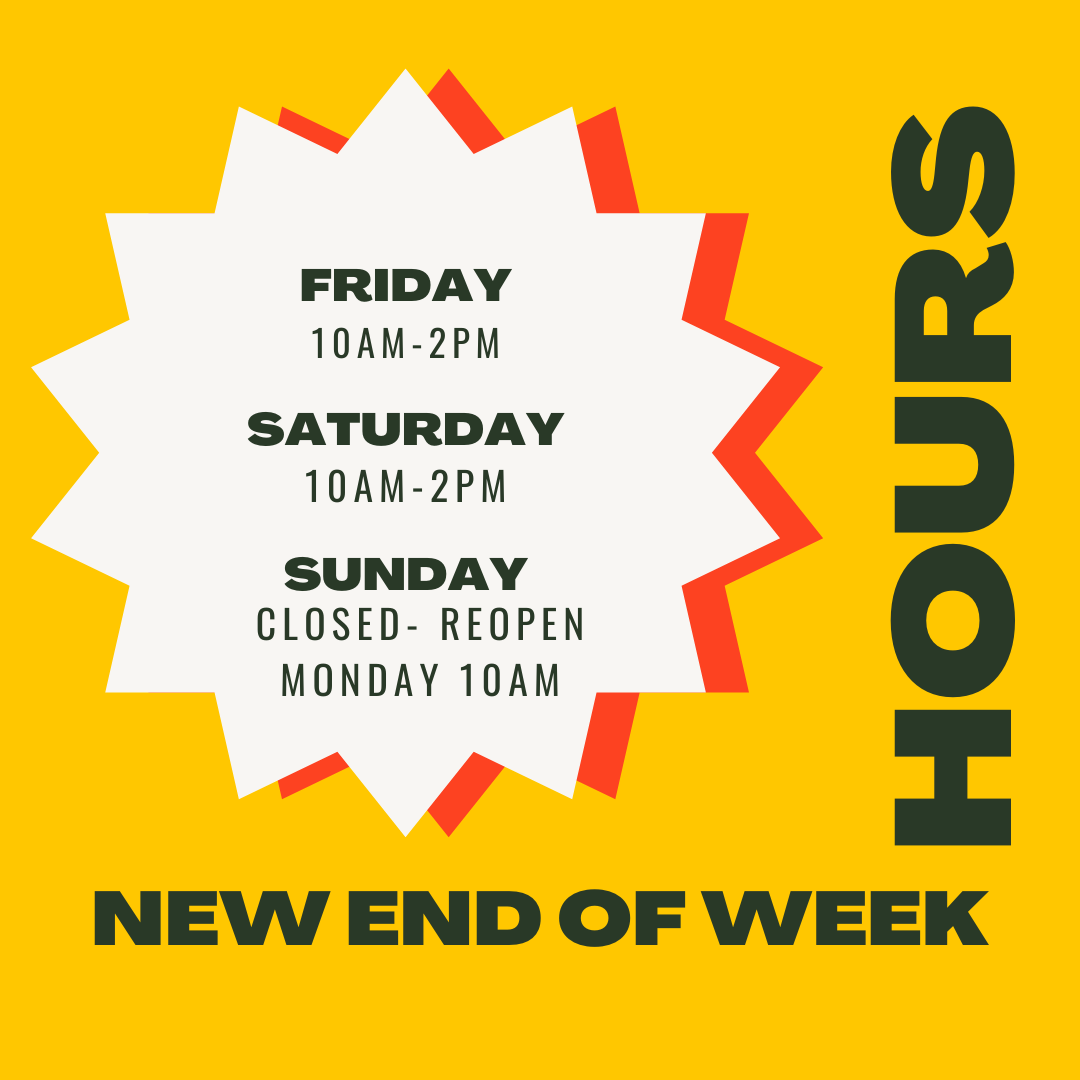
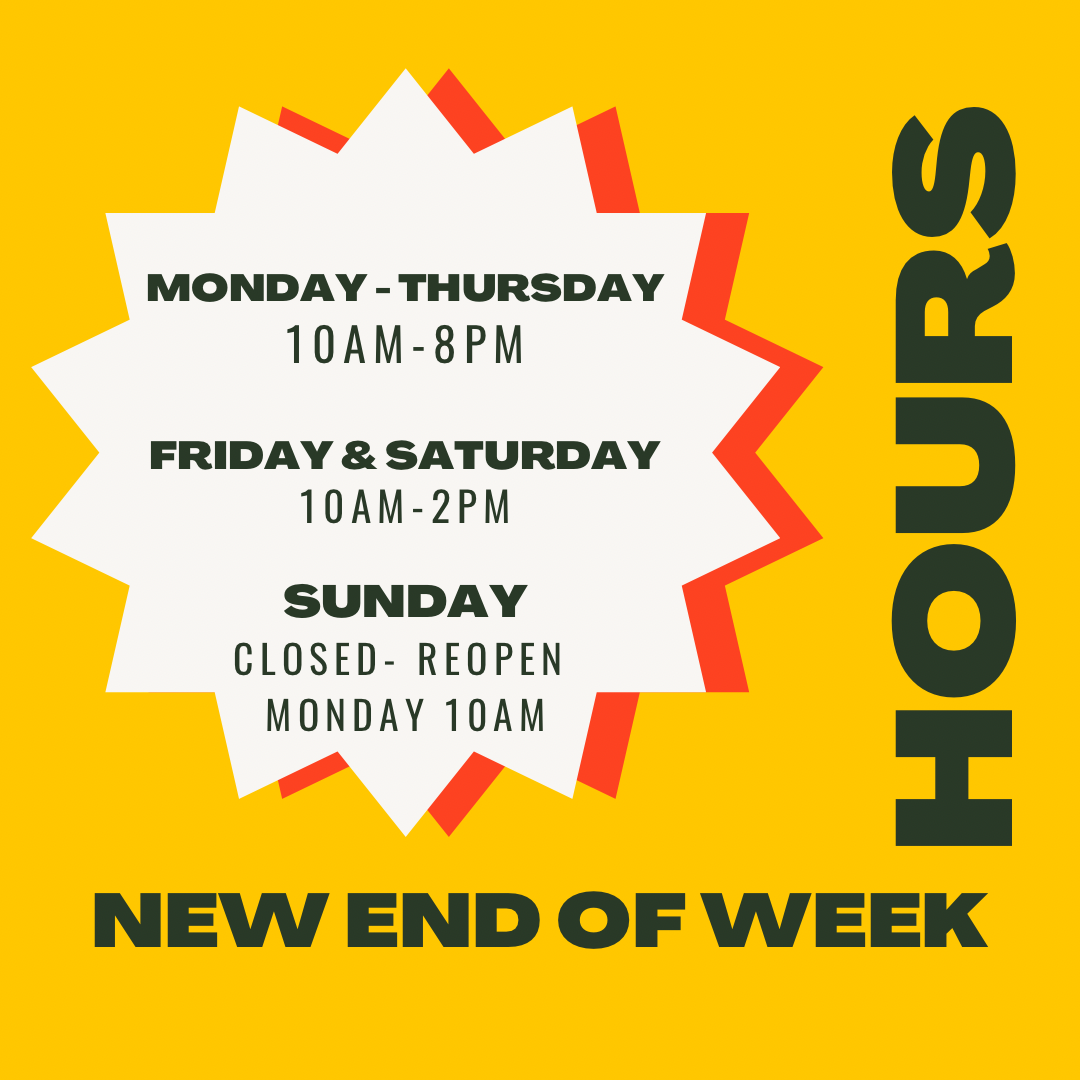
New Hours Changed - 2

diff --git a/temp.html b/temp.html
@@ -1,0 +1,274 @@
+<!DOCTYPE html>
+<html>
+<head>
+    <meta name="viewport" content="width=device-width, initial-scale=1.0">
+    <link rel="stylesheet" type="text/css" href="styles.css">
+    <link rel="stylesheet" href="https://cdnjs.cloudflare.com/ajax/libs/font-awesome/5.15.3/css/all.min.css"/>
+    <link href="https://fonts.googleapis.com/css2?family=Lato:wght@400;700&display=swap" rel="stylesheet">
+</head>
+<body>
+    <div id="mobile-menu-overlay"></div>
+    <header id="myHeader">
+        <img src="img/logo1.png" alt="Logo" class="logo">
+        <button class="menu-toggle">
+            <div class="bar"></div>
+            <div class="bar"></div>
+            <div class="bar"></div>
+        </button>    
+        
+        
+        <nav class="navbar">
+            <ul>
+                <li><a href="refill-pescription.html">Refill My Prescription</a></li>
+                <li><a href="transfer.html">Patient Transfer Form</a></li>
+                <li><a href="https://app.digitalpharmacist.com/assessment-form/?configId=36cdfe6f-6236-4ef0-b26a-15b9aa19d710" target="_blank">Schedule a Vaccine Appointment</a></li>
+                <li><a href="https://vivajacksonheights.myshopify.com/" target="_blank" rel="noopener noreferrer">Online Store</a></li>
+                <li><a href="#services">Services</a></li>
+                <div class="more-on-mobile">
+                    <li><a href="#enterprise-section">Building an Enterprise</a></li>
+                    <li><a href="index.html#MedsOnCue">My Medication Videos</a></li>
+                    <li><a href="#locations">Locations</a></li>
+                    <li><a href="#reviews">Reviews</a></li>
+                    <li><a href="#contact">Contact Us</a></li>
+                </div>
+                <li class="more">
+                    <a href="">More</a>
+                    <ul class="dropdown-menu">
+                        <li><a href="index.html#MedsOnCue">My Medication Videos</a></li>
+                        <li><a href="#enterprise-section">Building an Enterprise</a></li>
+                        <li><a href="#locations">Locations</a></li>
+                        <li><a href="#reviews">Reviews</a></li>
+                        <li><a href="#contact">Contact Us</a></li>
+
+                    </ul>
+                </li>
+            </ul>
+        </nav>
+    </header>
+    
+    <!-- Oreyo Chatbot Popup -->
+    <div id="oreyo-popup" class="oreyo-popup">
+        <div class="oreyo-popup-content">
+            <h2>Need Assistance?</h2>
+            <p>Our chatbot Oreyo is here to help with any questions you have. Click the chat icon at the bottom right corner to start!</p>
+            <button id="close-popup" onclick="closeOreyoPopup()">Got it</button>
+        </div>
+    </div>
+
+
+    
+    <!-- Hero Image  -->
+    <div id="hero-image"></div>
+    <div class="new-hours-overlay">
+        <img src="img/new-hours.png" alt="New Hours of Operation">
+    </div>
+    
+    <!-- Services Section  -->
+    <section id="services" class="section">
+        <h2>How may we assist you?</h2>
+        <div class="services-grid">
+
+            <div class="service-item">
+                <img src="health-screening.png" alt="Health Screenings" class="service-image">
+                <h3>Health Screenings</h3>
+                <p>Our health screening services are designed to help identify risk factors and health conditions early when they are more manageable.</p>
+            </div>
+
+            <div class="service-item">
+                <img src="immunizations.png" alt="Immunizations" class="service-image">
+                <h3>Immunizations</h3>
+                <p>We offer a wide variety of immunizations to help protect you and your family from various diseases and illnesses.</p>
+            </div>
+
+            <div class="service-item">
+                <img src="multi-dose-pack.png" alt="Multi-Dose Packaging" class="service-image">
+                <h3>Multi-Dose Packaging</h3>
+                <p>We offer multi-dose packaging services to help manage multiple medications more effectively and ensure you never miss a dose.</p>
+            </div>
+
+            <div class="service-item">
+                <img src="travel-vaccination.png" alt="Travel Vaccinations" class="service-image">
+                <h3>Travel Vaccinations</h3>
+                <p>We provide a range of travel vaccinations to ensure you stay healthy while travelling abroad.</p>
+            </div>
+
+            <div class="service-item">
+                <img src="low-cost1.png" alt="Low-Cost Pharmacy Services" class="service-image">
+                <h3>Low-Cost Pharmacy Services</h3>
+                <div class="service-description">
+                    <p class="short-description">Our experienced staff is committed to finding ways to help you save money without sacrificing the quality of care you receive...</p>
+                    <p class="long-description">Our experienced staff is committed to finding ways to help you save money without sacrificing the quality of care you receive. VIVA Pharmacy & Wellness is a NYS Medicaid Pharmacy Provider and is contracted with most third party prescription plans , even beating prices suggested by GoodRx.</p>
+                </div>
+            </div>
+
+            <div class="service-item">
+                <img src="passport-photo.png" alt="Passport Photo Services" class="service-image">
+                <h3>Passport Photo Services on Site</h3>
+                <p>Get professional-quality passport photos taken and printed on-site for all your travel needs.</p>
+            </div>
+
+            <!-- Home Delivery Services available -->
+            <div class="service-item">
+                <img src="home-delivery.png" alt="Home Delivery Services" class="service-image">
+                <h3>Home Delivery Services Available</h3>
+                <p>We offer convenient home delivery services for your prescriptions and other healthcare products.</p>
+            </div>
+        
+            <!-- We are Your Vaccination Destination! -->
+            <div class="service-item">
+                <img src="vaccination-destination.png" alt="Vaccination Destination" class="service-image">
+                <h3>We are Your Vaccination Destination!</h3>
+                <p>From routine vaccines to specialized immunizations, we are your go-to destination for all your vaccination needs.</p>
+            </div>  
+        </div>
+    </section>  
+
+    <!-- MedsOnCue Section -->
+    <section id="MedsOnCue" class="section">
+        <h2>My Medication Videos</h2>
+        <div class="med-images">
+            <img src="medsoncue-english.png" alt="First image description">
+            <img src="medsoncue-spanish.png" alt="Second image description">
+        </div>
+    </section>
+
+    <!-- New Section with Image Container and Text -->
+<section id="enterprise-section" class="section">
+    <div class="content-wrapper">
+        <!-- Image Container -->
+        <div id="enterprise-image" class="image-container">
+            <img src="enterprise.png" alt="Enterprise Image">
+        </div>
+
+        <!-- Text Container -->
+        <div class="text-container">
+            <h2>Building an Enterprise!</h2>
+            <p>Discover the VIVA Pharmacy & Wellness difference. For over 8 years, we've dedicated ourselves to seamless healthcare experiences. Our modern pharmacy offers personalized care, cutting-edge technology, and multilingual support. With easy-to-read labels, our commitment empowers you to take charge of your health. Our devoted team ensures personalized service, expert advice, and lasting relationships. Experience streamlined processes, advanced systems, and compassionate care. Trust VIVA Pharmacy & Wellness – Your Partner in Wellness, Where Technology Meets Compassionate Care.</p>
+        </div>
+    </div>
+</section>
+
+<!-- Reviews Section-->
+    <section id="reviews" class="section">
+        <h2>Reviews</h2>
+        <div class="reviews-container">
+            <div class="review-item">
+                <h3>Michael P.</h3>
+                <img src="img/five-stars.png" alt="5 star rating" />
+                <div class="review-text">
+                    <p class="short-review">"Michelle and her staff go above and beyond in providing an overall great experience.."</p>
+                    <p class="long-review">"Michelle and her staff go above and beyond in providing an overall great experience. The place is neat, clean, organized and has a nice feel. Employees are friendly. Wait time is much shorter than at the major chain pharmacies and prices are better too. Most importantly the time spent going over questions and concerns is the best I have ever seen from any pharmacy,. They really take the time and effort to make sure you are made to feel important, not rushed and satisfied each and every time. A throwback to the old fashioned neighborhood pharmacies from way back in the day."</p>
+                </div>
+            </div>
+            <div class="review-item">
+                    <h3>Ish A.</h3>
+                    <img src="img/five-stars.png" alt="5 star rating" />
+                    <div class="review-text">
+                        <p class="short-review">"I’ve been using this pharmacy for over 2 years when I lived in Jackson heights. I’ve always found them to super professional..."</p>
+                        <p class="long-review">"I’ve been using this pharmacy for over 2 years when I lived in Jackson heights. I’ve always found them to super professional, efficient and above all nice and caring. When I told them I’m moving out of the area they suggested that they would deliver any urgent medications especially ones for the children right away. During covid-19 pandemic they did the same and remained ever professional. I would highly recommend them."</p>
+                    </div>
+                </div>
+                <div class="review-item">
+                    <h3>Vanessa Garcia</h3>
+                    <img src="img/five-stars.png" alt="5 star rating" />
+
+                    <div class="review-text">
+                    <p class="short-review">"Great pharmacy!!! Great staff. Always have my medicines in 15-30 min and they also deliver your medicine to your home for Free which..."</p>
+                    <p class="long-review">"I’ve been using this pharmacy for over 2 years when I lived in Jackson heights. I’ve always found them to super professional, efficient and above all nice and caring. When I told them I’m moving out of the area they suggested that they would deliver any urgent medications especially ones for the children right away. During covid-19 pandemic they did the same and remained ever professional. I would highly recommend them."</p>
+                    </div>
+                </div>
+                <div class="review-item">
+                    <h3>Morzina K.</h3>
+                    <img src="img/five-stars.png" alt="5 star rating" />
+
+                    <div class="review-text">
+                        <p class="short-review">"Staffs are very friendly and helpful also welcoming especially Michelle, you are amazing!!! It’s a great pharmacy! I highly recommend this pharmacy to everyone."</p>
+                        <p class="long-review">"Staffs are very friendly and helpful also welcoming especially Michelle, you are amazing!!! It’s a great pharmacy! I highly recommend this pharmacy to everyone."</p>
+                    </div>
+                </div>
+                <div class="review-item">
+                    <h3>Al Faidi</h3>
+                    <img src="img/five-stars.png" alt="5 star rating" />
+
+                    <div class="review-text">
+                        <p class="short-review">"Great ppl, super helpful and friendly staff. My wife, my son, and myself are super appreciative to their work ethics."</p>
+                        <p class="long-review">"Great ppl, super helpful and friendly staff. My wife, my son, and myself are super appreciative to their work ethics. We at a personal level had and still have great experience with the pharmacist Michelle as well as her staff. They care about health and never hesitate to give up recommendations and direction when needed. I'm happy to consider them my pharmacy. Thank you guys for being so awesome."</p>
+                    </div>
+                </div>
+            </div>
+        </section>
+
+        <!-- Locations Section -->
+        <section id="locations" class="section">
+            <h2>Our Locations</h2>
+            <div class="locations-container">
+                <div class="location">
+                    <div class="location-image-container">
+                        <img id="viva-location-image" src="viva.png" alt="Location 1 Image">
+                    </div>
+                    <div id="viva-location-details" class="location-details">
+                        <h3>VIVA Pharmacy and Wellness</h3>
+                        <p><strong>Address:</strong> 80-14 Northern Blvd, Queens, NY 11372</p>
+                        <p><strong>Phone:</strong> (718) 450-9595</p>
+                        <p style="word-wrap: break-word;">
+                            VIVA Pharmacy and Wellness is our flagship store, dedicated to providing comprehensive healthcare services to the vibrant community of Queens, New York. Located at 80-14 Northern Blvd, Queens, NY 11372, our main store serves as a trusted healthcare destination for our valued customers...
+                        </p>
+                    </div>
+                </div>
+                <div class="location">
+                    <div class="location-image-container">
+                        <img id="nova-location-image" src="nova.png" alt="Location 2 Image">
+                    </div>
+                    <div class="location-details">
+                        <h3>Nova Q Health</h3>
+                        <p><strong>Address:</strong> 104-01 Northern Blvd, Queens, NY 11368</p>
+                        <p><strong>Phone:</strong> (646) 809-9595</p>
+                        <p style="word-wrap: break-word;">
+                            Introducing Nova Q Health, our new store designed to elevate your healthcare experience. Located at 104-01 Northern Blvd, Queens, NY 11368, Nova Q Health is redefining healthcare accessibility and convenience...
+                        </p>
+                    </div>
+                </div>
+                <!-- Add more locations as needed with descriptions -->
+            </div>
+        </section>
+        
+        
+
+
+
+         <!-- Contact Us Section -->
+        <section id="contact" class="section">
+            <h2>Contact Us</h2>
+            <form class="contact-form">
+                <input type="text" placeholder="Your Name">
+                <input type="email" placeholder="Your Email">
+                <textarea placeholder="Your Message"></textarea>
+                <button type="submit">Submit</button>
+            </form>
+        </section>
+        
+        <!-- Footer -->
+        <footer>
+            <div class="footer-content">
+                <p>© 2023 VIVA Pharmacy and Wellness</p>
+            </div>
+        </footer>
+        <script>
+            window.embeddedChatbotConfig = {
+            chatbotId: "5tbb0VFrFgwPNhR8_iICg",
+            domain: "www.chatbase.co"
+            }
+            </script>
+            <script
+            src="https://www.chatbase.co/embed.min.js"
+            chatbotId="5tbb0VFrFgwPNhR8_iICg"
+            domain="www.chatbase.co"
+            defer>
+        </script>
+
+        <!-- Scripts-->
+        <script src="main.js"></script>
+    </body>
+</html>
+
+
